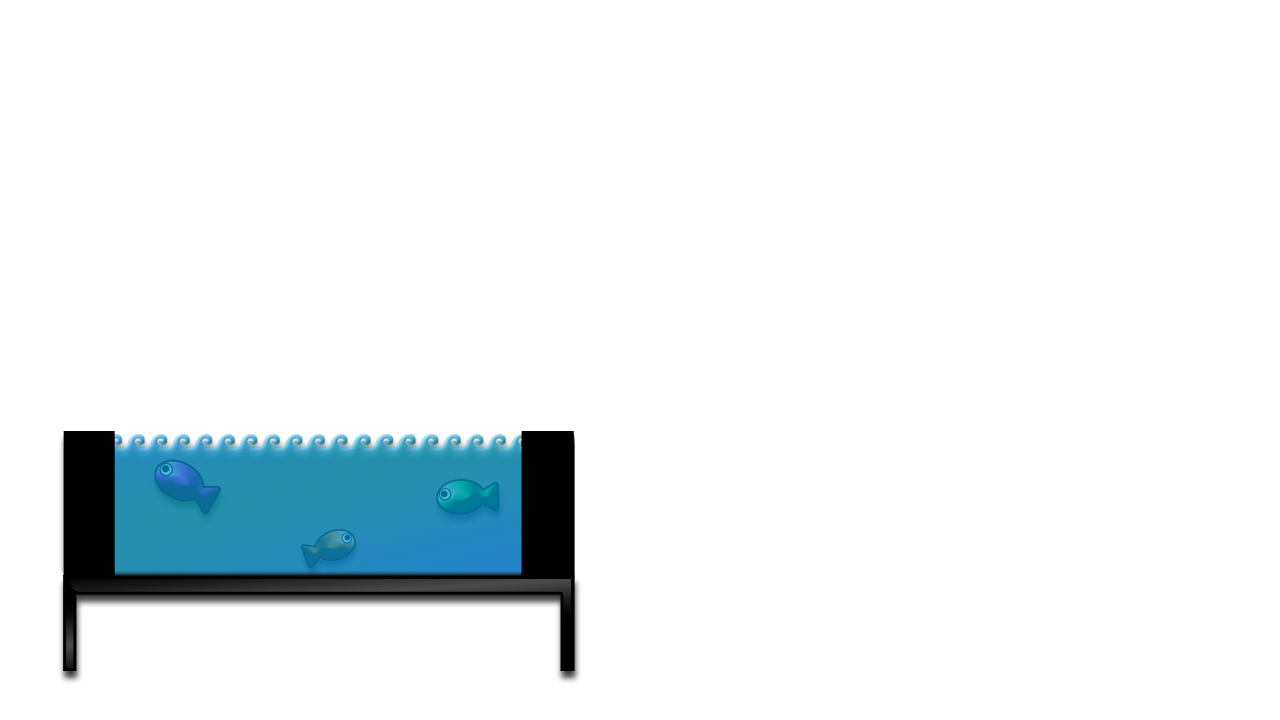
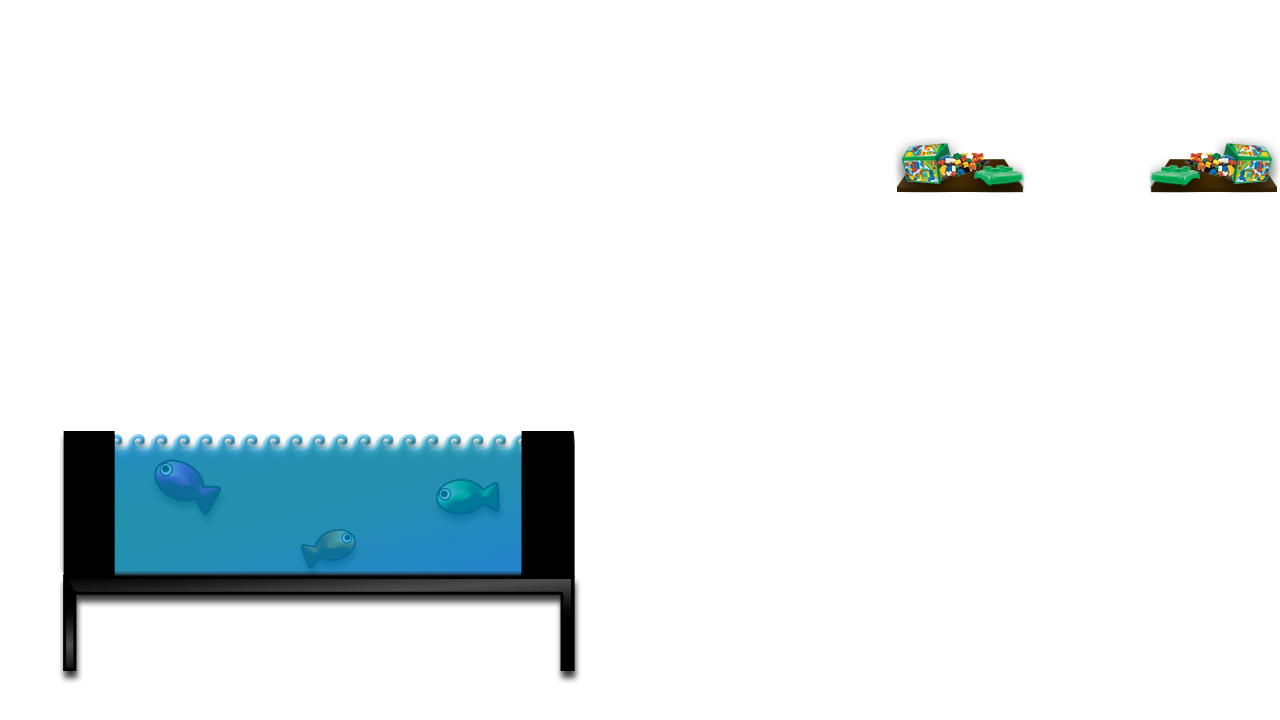
added the lego falling shelf in the first level overlay

Changed region(s): [[0.6875, 0.1833, 0.8125, 0.275], [0.875, 0.1833, 1.0, 0.275]]

diff --git a/Platform1/Platform1/PlatformerGame.cs b/Platform1/Platform1/PlatformerGame.cs
@@ -62,7 +62,7 @@ namespace LearningXNA
 
         // Meta-level game state.
 
-        private int levelIndex = -0;
+        private int levelIndex = -1;
 
         private Level level;
         private bool wasContinuePressed;
